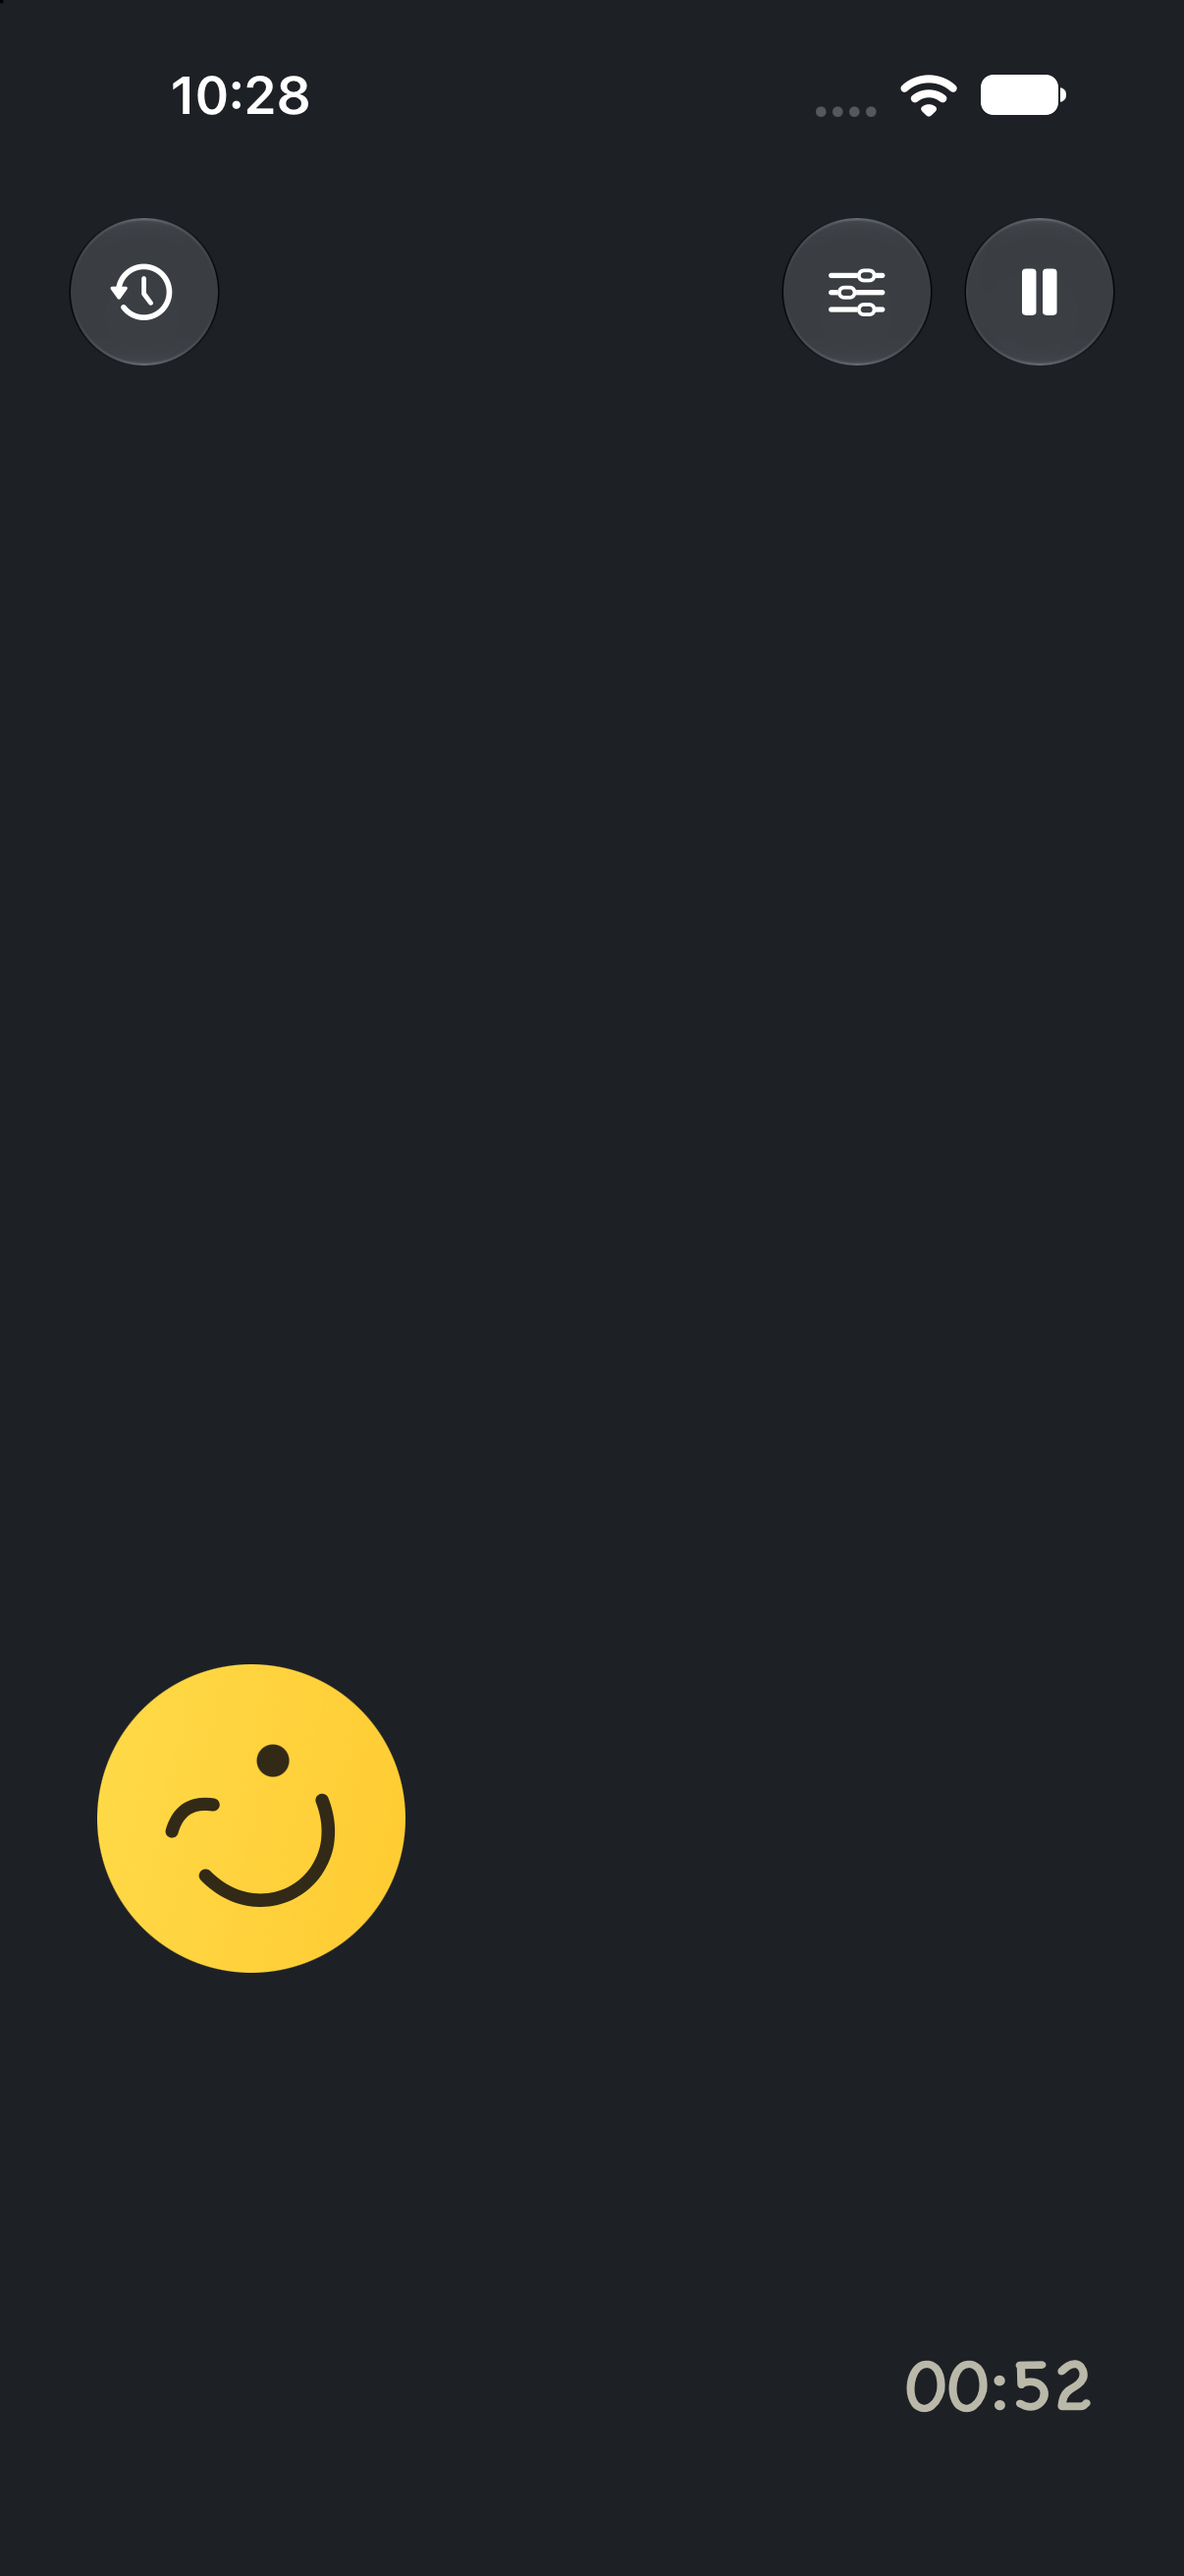
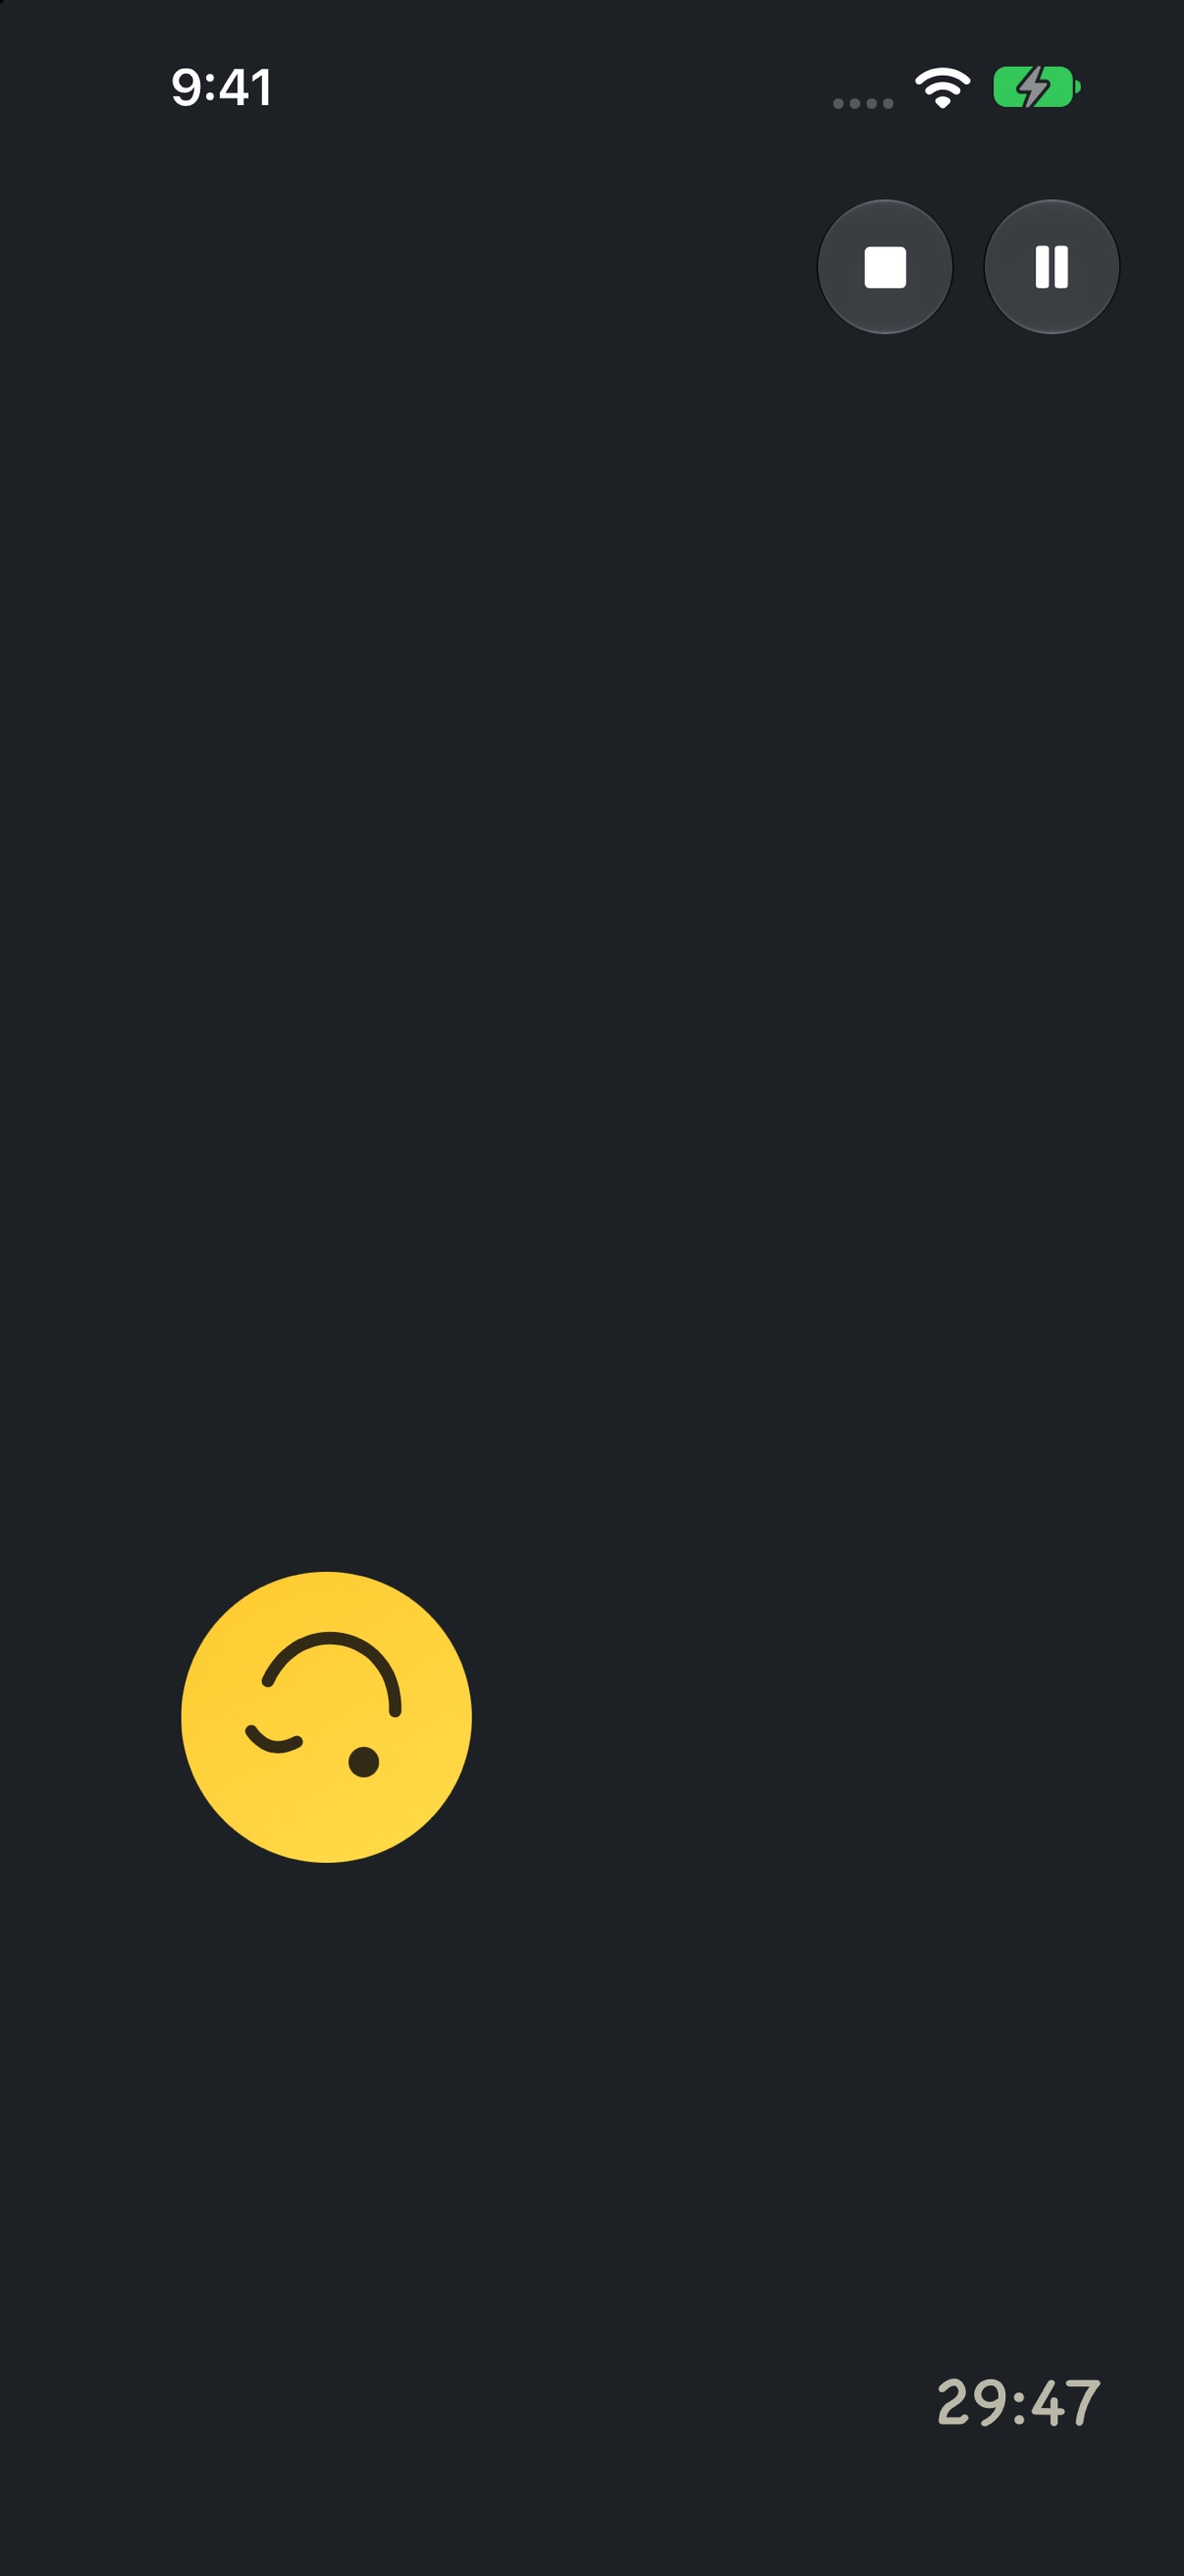
LIT-47: refresh App Store copy, screenshots, and version 1.0.3

diff --git a/docs/support.md b/docs/support.md
@@ -1,6 +1,6 @@
 # Little While Support
 
-Little While is a focus timer for iPhone running iOS 18 or later.
+Little While is a Pomodoro focus and rest timer for iPhone running iOS 18 or later. Work in cycles of focus and rest, loop them automatically, follow the countdown from your Lock Screen, and see your focus time add up on a monthly calendar.
 
 ## Get in touch
 
@@ -8,17 +8,37 @@ For help, questions, or bug reports, email Graham Otte at [go@graham.lol](mailto
 
 ## Start a timer
 
-Open Settings using the sliders button, choose a theme and your focus and rest durations, then tap Start. You can pause and resume from the main timer screen.
+Open Settings using the sliders button, choose a theme and your focus and rest durations, then tap Start. Focus can be 1 to 120 minutes. Rest can be 0 to 120 minutes; set it to 0 for a single focus block with no break. When focus ends, Little While alerts you and moves straight into rest.
+
+History and Settings are hidden while a run is active. Stop the run to get back to them. Touch and hold the play button to start a run over.
+
+## Loop focus and rest
+
+Turn on Loop in Settings before tapping Start. When rest ends, the next focus block starts automatically, and focus and rest keep repeating until you tap stop. History shows how many cycles each looped run completed.
+
+## Pausing
+
+Pausing is intentionally short. A paused timer shows a one-minute countdown and then resumes on its own, so a quick interruption doesn't turn into an abandoned session. Tap play to resume sooner, or tap stop to end the run. Stopped runs keep their progress in History.
+
+## Themes
+
+Pick a theme at the top of Settings:
+
+- **Mr Smiles**: a smiley face that bounces around the screen while you work. Drag and flick him while the timer runs.
+- **He Loves Me**: a daisy that drops its petals one by one as time passes.
+- **Boring**: a minimal countdown.
 
 ## Completion alerts
 
-Allow notifications when prompted. On iOS 26 or later, Little While can also request alarm permission so completion alarms can sound during Silent mode or a Focus. You can manage these permissions in iPhone Settings. If alarm access is unavailable, Little While uses local notifications when permitted.
+Allow notifications when prompted. On iOS 26 or later, Little While can also request alarm permission so completion alarms can sound during Silent mode or a Focus, at the end of each focus and rest period. You can manage these permissions in iPhone Settings. If alarm access is unavailable, Little While uses local notifications when permitted.
 
-Live Activities show your timer on the Lock Screen and, on supported iPhones, the Dynamic Island. Check Little While's Live Activities setting in iPhone Settings if they do not appear.
+## Lock Screen and Dynamic Island
+
+Live Activities show your remaining time and whether you are in focus or rest on the Lock Screen and, on supported iPhones, the Dynamic Island. Check Little While's Live Activities setting in iPhone Settings if they do not appear.
 
 ## Run history
 
-Tap the history button to see your saved runs and monthly activity calendar. Your settings and history stay on your device. You can delete individual past runs from History. Removing the app deletes its local data.
+Tap the history button to see your saved runs and monthly activity calendar. Each day's dot grows with that day's focus time; use the arrows or swipe to move between months. Your settings and history stay on your device. You can delete individual past runs from History. Removing the app deletes its local data.
 
 ## Privacy
 

diff --git a/docs/app-store-submission.md b/docs/app-store-submission.md
@@ -4,7 +4,7 @@ Little While is an iPhone-only app for iOS 18 or later. Prepare a release with t
 
 ## Release assets
 
-`config.json` contains the description, keywords, screenshots, App Review contact, and review instructions. The iPhone 6.9-inch screenshot set uses `APP_IPHONE_67`; the supplied iPhone 6.3-inch captures use `APP_IPHONE_61`, the API display group for those devices. The larger screenshot is captured directly from iPhone 17 Pro Max with `mise publish:simulate iphone` and `xcrun simctl io <device-id> screenshot --type=jpeg`.
+`config.json` contains the description, keywords, screenshots, App Review contact, and review instructions. The iPhone 6.9-inch screenshot set uses `APP_IPHONE_67`; the iPhone 6.3-inch set uses `APP_IPHONE_61`, the API display group for those devices. Both sets show the same four screens: the 6.9-inch images are 1320x2868 JPEG captures, and the 6.3-inch images are those captures resized to 1206x2622. Every configured display type must stay listed, because publishing replaces screenshots only in the sets named in `config.json`.
 
 The app includes `PrivacyInfo.xcprivacy` declaring no tracking or collected data and the `CA92.1` reason for accessing its own UserDefaults. Settings links to the public privacy policy.
 
